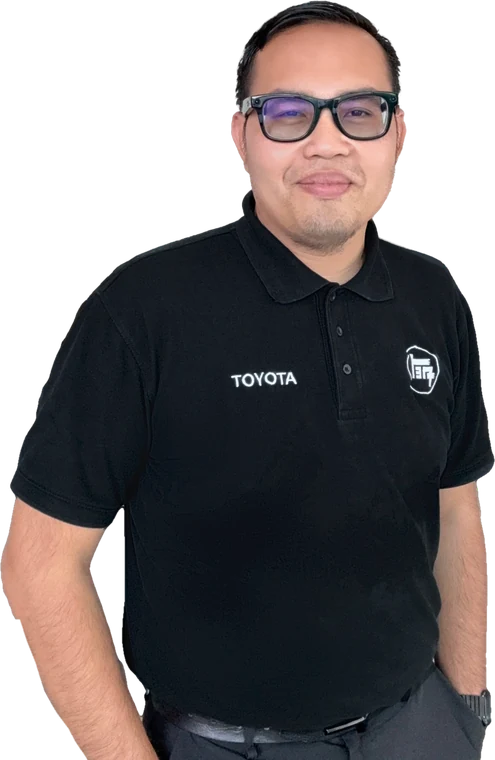
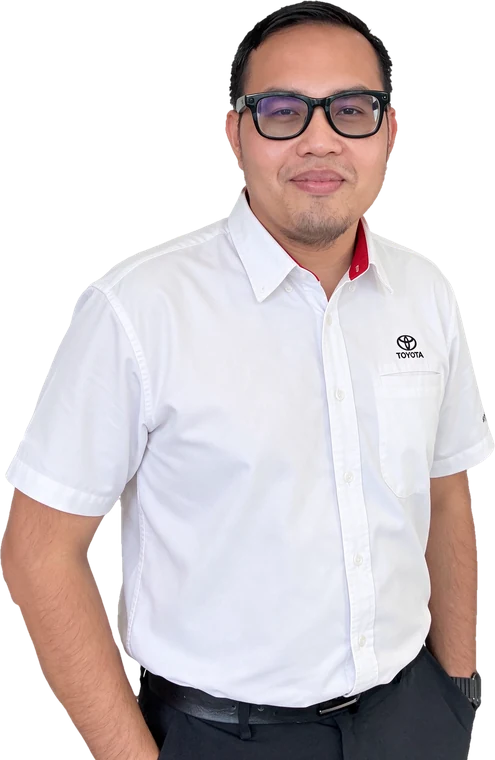
Home header: use the white Toyota shirt photo

diff --git a/en/index.html b/en/index.html
@@ -104,7 +104,7 @@
   <div class="wave" aria-hidden="true"><div class="wave-in"></div></div>
   <div class="wrap hero-grid">
     <div class="hero-copy">
-      <figure class="hero-wan"><img src="../img/wan-hero.webp" alt="Wan Jasni, Toyota Sales Advisor in Telok Panglima Garang" width="495" height="760" fetchpriority="high"></figure>
+      <figure class="hero-wan"><img src="../img/wan-hero.webp?v=2" alt="Wan Jasni, Toyota Sales Advisor in Telok Panglima Garang" width="495" height="760" fetchpriority="high"></figure>
       <p class="eyebrow light">Toyota Sales Advisor · Panglima City Motor</p>
       <h1>TOYOTA<br><span>TELOK PANGLIMA GARANG</span></h1>
       <p class="lead">Official prices, loan estimates and model suggestions for Toyota, all on one page. Choose a model, work out the loan, then WhatsApp Wan Jasni to confirm the current price, this month's rebate and colour stock.</p>

diff --git a/index.html b/index.html
@@ -154,7 +154,7 @@
   <div class="wave" aria-hidden="true"><div class="wave-in"></div></div>
   <div class="wrap hero-grid">
     <div class="hero-copy">
-      <figure class="hero-wan"><img src="img/wan-hero.webp" alt="Wan Jasni, Sales Advisor Toyota di Telok Panglima Garang" width="495" height="760" fetchpriority="high"></figure>
+      <figure class="hero-wan"><img src="img/wan-hero.webp?v=2" alt="Wan Jasni, Sales Advisor Toyota di Telok Panglima Garang" width="495" height="760" fetchpriority="high"></figure>
       <p class="eyebrow light">Sales Advisor Toyota · Panglima City Motor</p>
       <h1>TOYOTA<br><span>TELOK PANGLIMA GARANG</span></h1>
       <p class="lead">Semua pasal Toyota ada kat sini: harga, kira loan, dan model mana yang sesuai dengan awak. Dah jumpa yang berkenan? WhatsApp je Wan Jasni untuk harga terkini, rebate bulan ni dan stok warna.</p>
